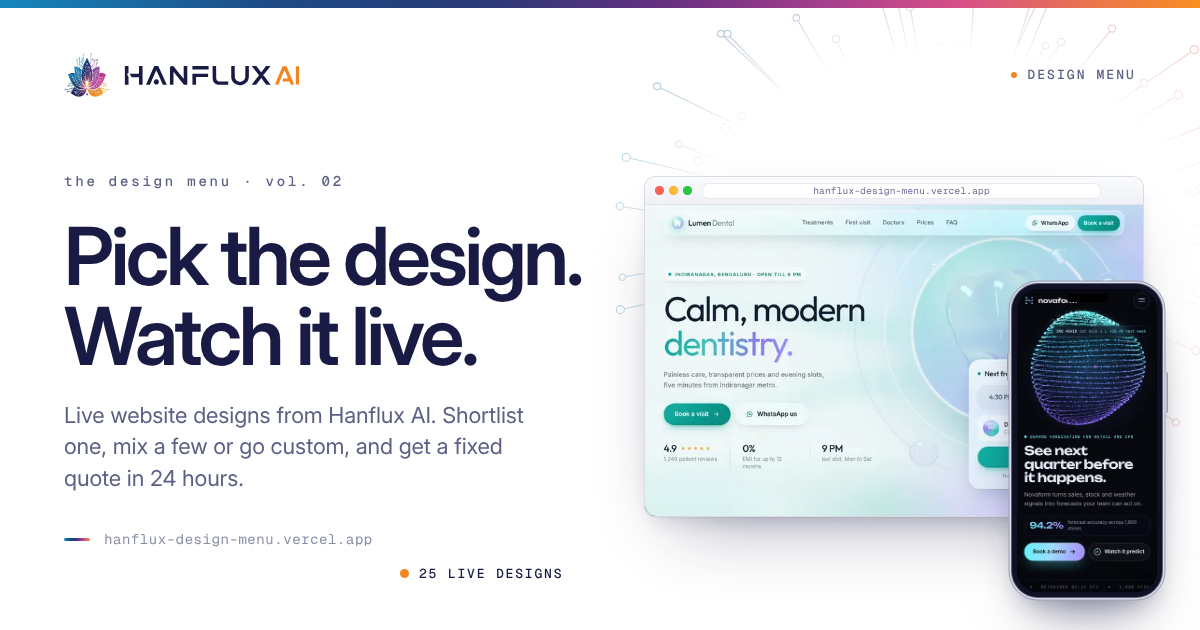
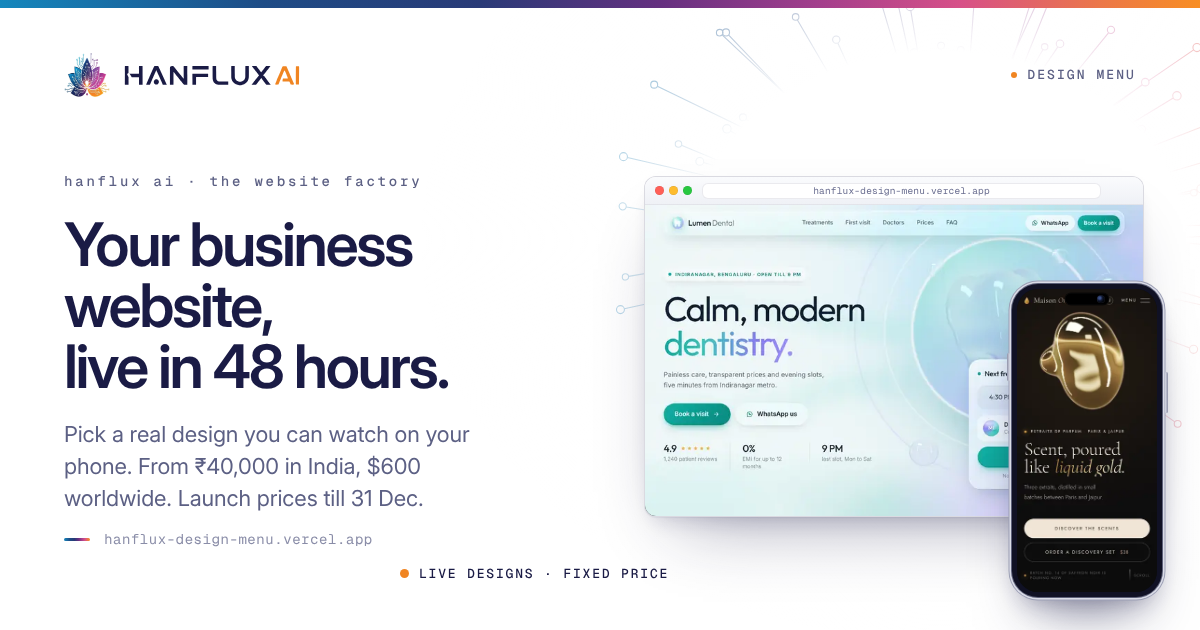
Link preview: the new offer (live in 48 hours, rupee and dollar prices)
Claude-Session: https://claude.ai/code/session_011JZHfJ5QvmTy8kpvuficqP

diff --git a/tools/og.html b/tools/og.html
@@ -11,7 +11,7 @@
   .top .wm img.l { width: 46px; height: 46px; } .top .wm img.t { height: 21px; width: auto; }
   .top .kicker { font-size: 13px; }
   .copy { position: absolute; left: 64px; top: 168px; width: 560px; }
-  .copy h1 { font: 600 80px/1 var(--font-display); letter-spacing: -.042em; margin: 22px 0 24px; color: var(--ink); }
+  .copy h1 { font: 600 60px/1.02 var(--font-display); letter-spacing: -.04em; margin: 20px 0 22px; color: var(--ink); }
   .copy p.l { font: 400 22px/1.45 var(--font-body); color: var(--ink-dim); margin: 0; max-width: 21em; }
   .foot { position: absolute; left: 64px; bottom: 50px; font: 400 14px/1 var(--font-mono); color: var(--ink-faint); letter-spacing: .04em; display: flex; align-items: center; gap: 14px; }
   .foot::before { content: ""; width: 26px; height: 3px; border-radius: 3px; background: var(--spectrum); }
@@ -30,16 +30,16 @@
   <div class="mark"><canvas class="bloom on" data-bloom data-anchor=".lotus" data-still="1" data-seed="29"></canvas><div class="lotus-wrap" style="position:static"><img class="lotus" src="/assets/hx/brand/lotus.webp" width="510" height="364" alt=""></div></div>
   <div class="top"><span class="wm"><img class="l" src="/assets/hx/brand/lotus.webp" alt=""><img class="t" src="/assets/hx/brand/wordmark.svg" alt=""></span><p class="kicker dotk">design menu</p></div>
   <div class="copy">
-    <p class="kicker low" style="font-size:14px">the design menu · vol. 02</p>
-    <h1>Pick the design.<br>Watch it live.</h1>
-    <p class="l">Live website designs from Hanflux AI. Shortlist one, mix a few or go custom, and get a fixed quote in 24 hours.</p>
+    <p class="kicker low" style="font-size:14px">hanflux ai · the website factory</p>
+    <h1>Your business website,<br>live in 48 hours.</h1>
+    <p class="l">Pick a real design you can watch on your phone. From ₹40,000 in India, $600 worldwide. Launch prices till 31 Dec.</p>
   </div>
   <div class="devs">
     <div class="dev-d"><div class="d-bar"><span class="d-dots"><i></i><i></i><i></i></span><span class="d-url">hanflux-design-menu.vercel.app</span></div><div class="vp"><img src="/posters/LAP-d.webp" alt=""></div></div>
     <div class="dev-m"><div class="vp"><img src="/posters/PHA-m.webp" alt=""></div><span class="isl"></span></div>
   </div>
   <div class="foot">hanflux-design-menu.vercel.app</div>
-  <span class="live"><i></i>LIVE_COUNT live designs</span>
+  <span class="live"><i></i>live designs · fixed price</span>
 </div>
 <script src="/assets/hx/bloom.js"></script>
 </body></html>
